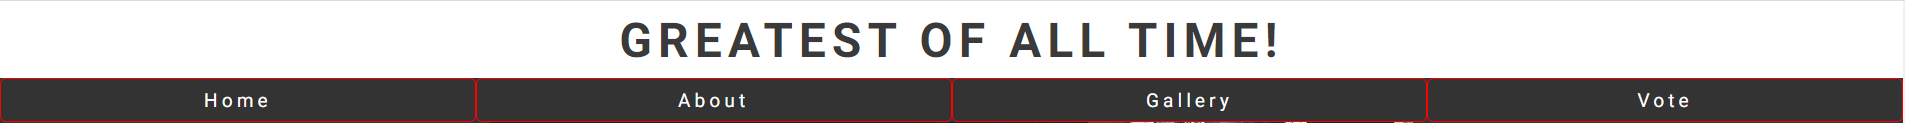
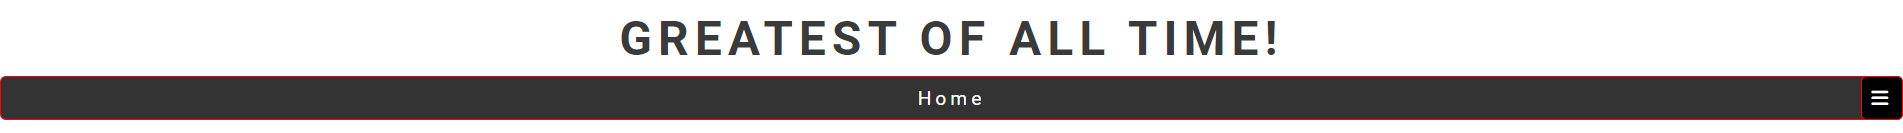
Add screen shots to read me where dropdown menu now exists

diff --git a/README.md b/README.md
@@ -65,7 +65,7 @@ The website comprised of 4 pages which are extended from a base template.
 #### Header
 
 - Features at the top of every page and shows the site heading and contains the navigation links.
-- The navigation links are placed under the heading and spaced out equally across the page clear to see.
+- The navigation links are placed under a dropdown menu which is accessible by clicking on the menu icon on the right hand side of the page.
 - The heading and navigation use font colors that match the colors worn by Michael Jordan when playing for Chicago Bulls.
 
 ![Header](assets/screenshots/header.png)
@@ -122,6 +122,9 @@ Gallery screenshot 3:
 
 Vote page screenshot:
 ![Vote Page](assets/screenshots/vote-page-1.png)
+
+Vote page screenshot 2:
+![Vote Page](assets/screenshots/vote-page-2.png)
 
 ## Testing
 
